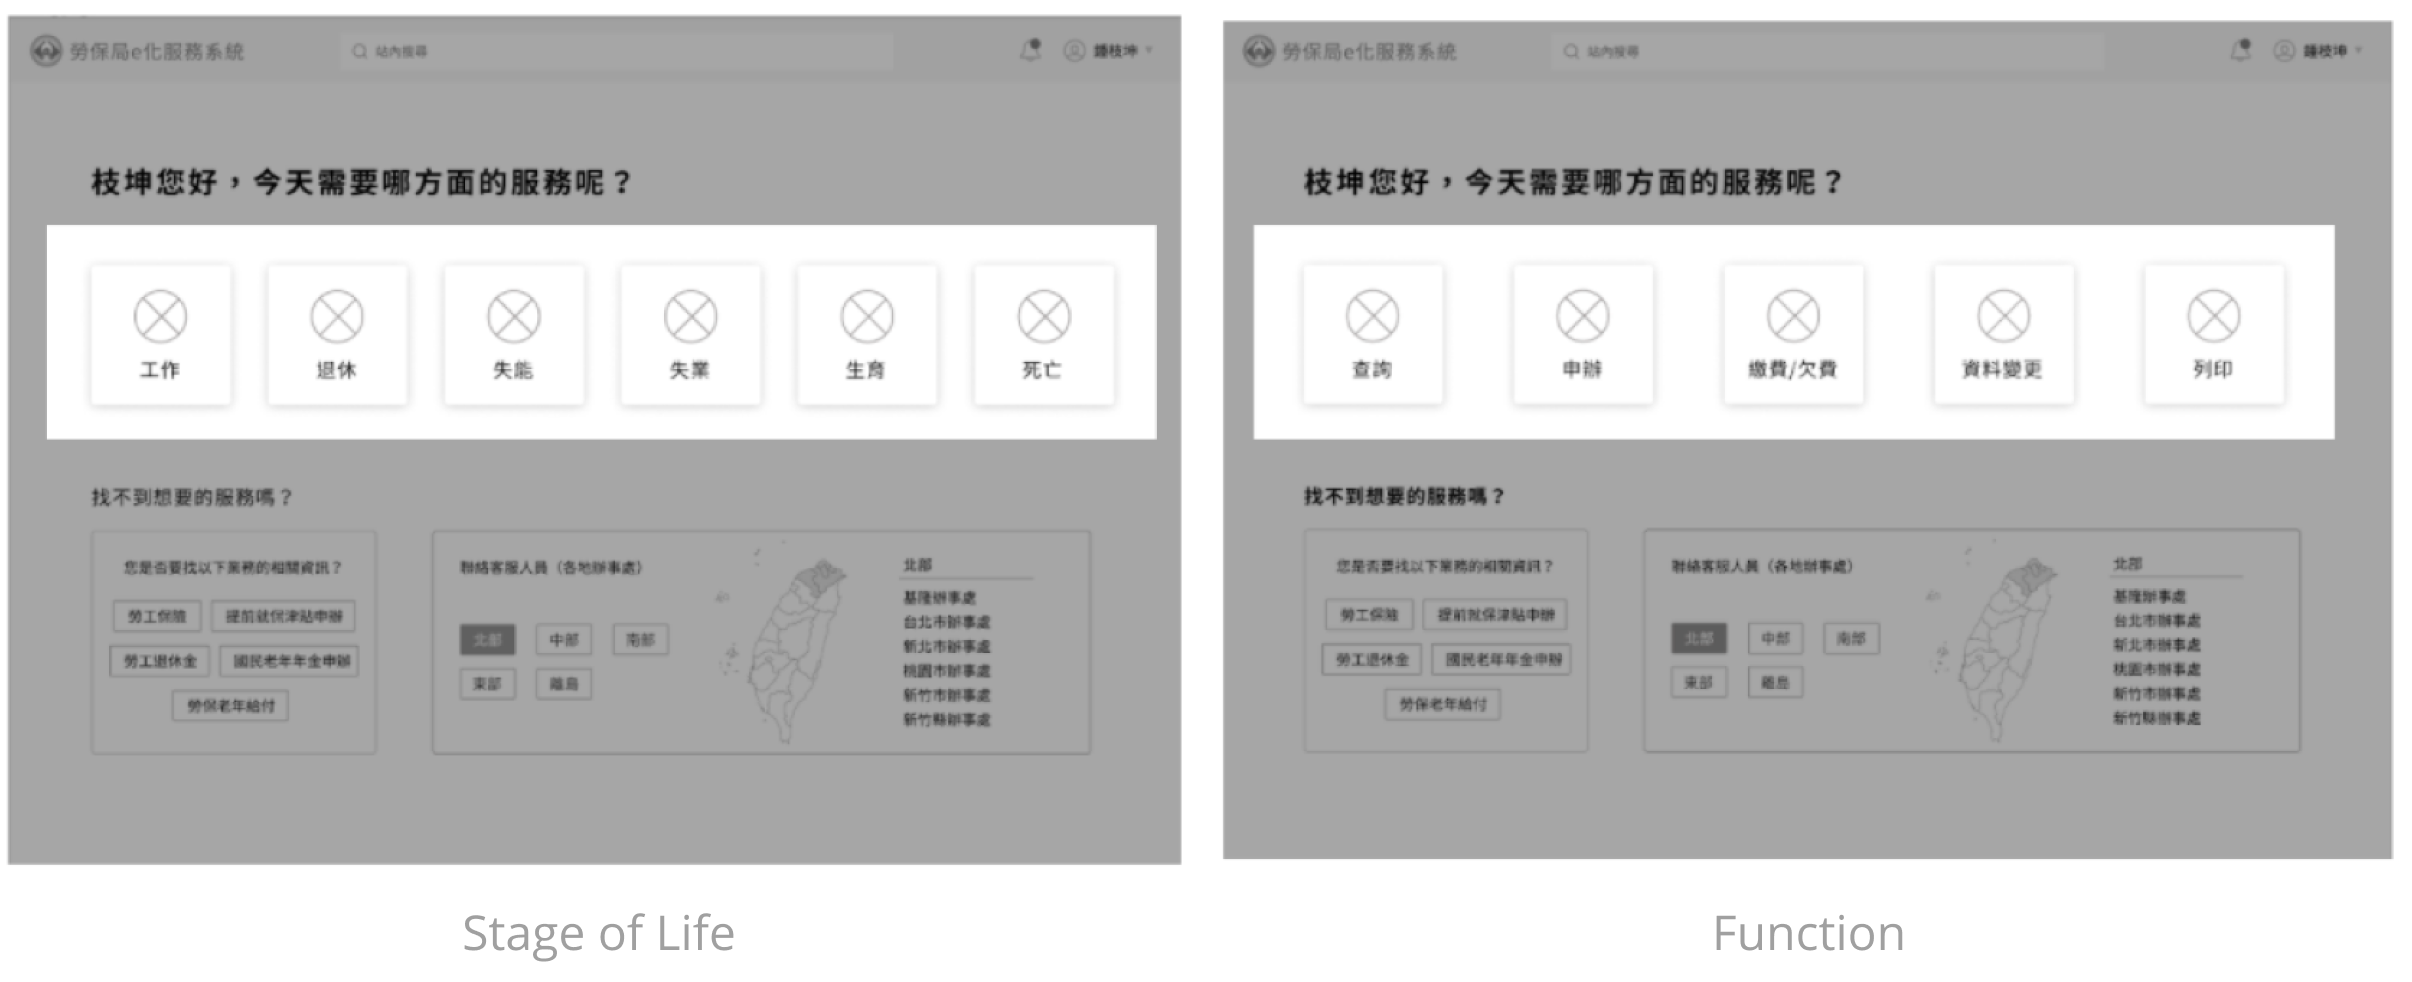
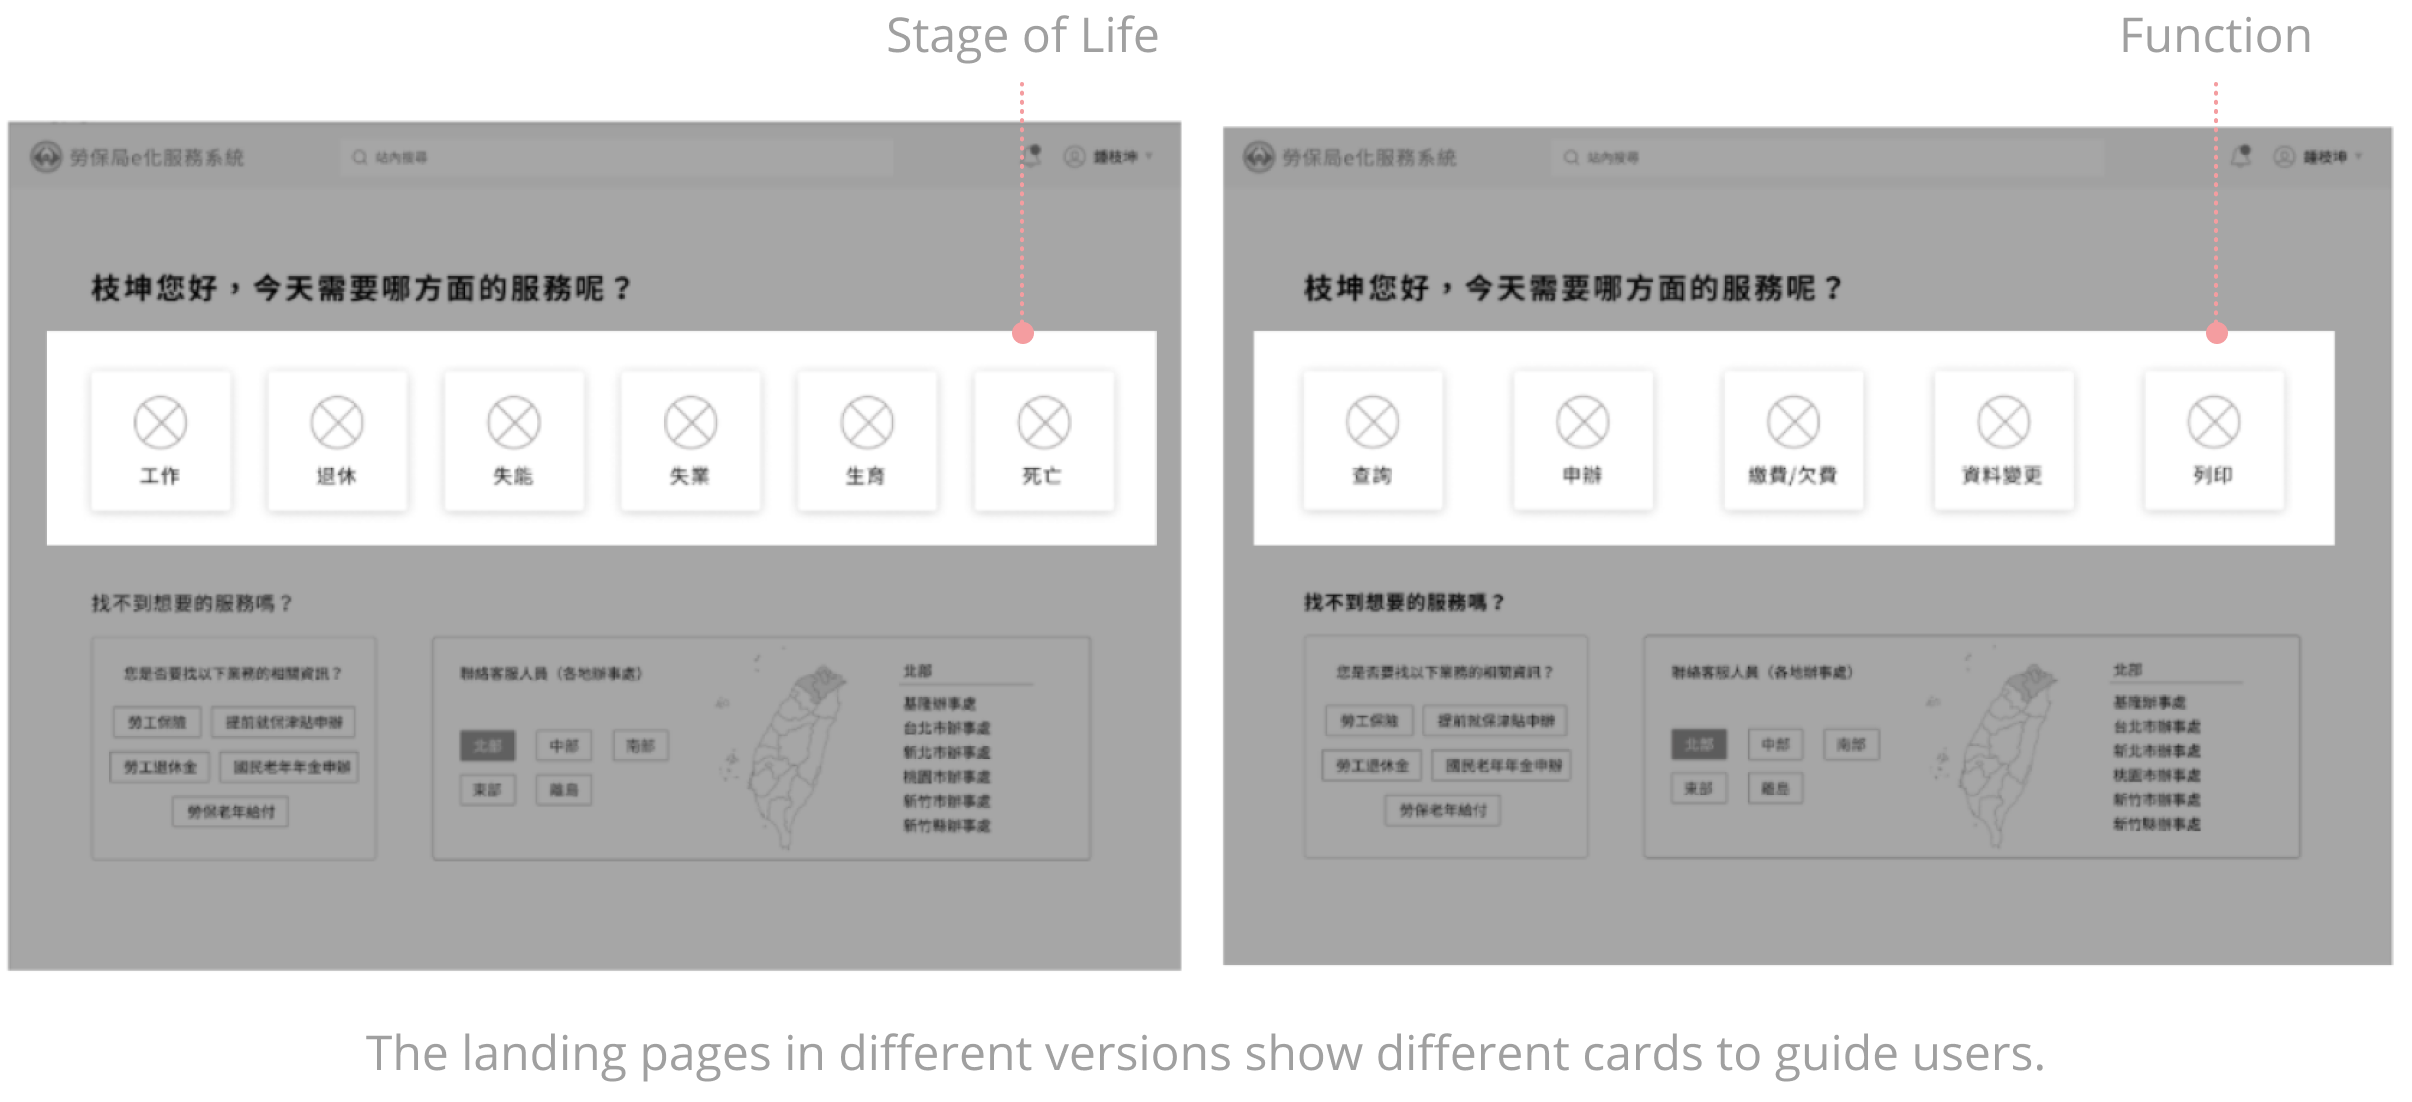
renew iaCompare and add highlights

diff --git a/src/components/Projects/RedesignBLI.js b/src/components/Projects/RedesignBLI.js
@@ -144,7 +144,7 @@ class RedesignBLI extends Component {
                     <p className="secondary-title">3. Design Wireframe</p>
                     <p className="section-subtitle blue-text">Using different information architecture to design two versions of wireframe</p>
                     <p>
-                        Since the Bureau of Labor Insurance provides a wide variety of services, we made two versions of wireframe using different information architecture to categorize each service. The “Stage of Life” version divides services into “working, retired, disabled, unemployed, giving birth, dead”. As for the “Function” version, we simply labeled each service into “making inquiries, applying, paying, changing data, printing”.
+                        Since the Bureau of Labor Insurance provides a wide variety of services, we made two versions of wireframe using different information architecture to categorize each service. The <b>“Stage of Life”</b> version divides services into “working, retired, disabled, unemployed, giving birth, dead”. As for the <b>“Function”</b> version, we simply labeled each service into “making inquiries, applying, paying, changing data, printing”.
                     </p>
                     <img className="full-width-img" src="/images/BLI/IaCompare.png" />
                     <p className="section-subtitle blue-text">Usability Testing on Information Architecture</p>
@@ -153,7 +153,10 @@ class RedesignBLI extends Component {
                     </p>
                     <div className="row">
                         <p className="col-6">
-                            Surprisingly, users found it difficult to search for the service they want in the “Stage of Life” version. For example, there is a subsidy that can only be applied when one was unemployed but later got a new job in 3 months. In this case, some may categorize it as “unemployed”, while others think it should belong to “working”. Due to the lower degree of confusion raised in classifying each service, we decided to use the “Function” version in our future iteration.                        </p>
+                            Surprisingly, users found it difficult to search for the service they want in the “Stage of Life” version. For example, there is a subsidy that can only be applied when one was unemployed but later got a new job in 3 months. In this case, some may categorize it as “unemployed”, while others think it should belong to “working”. 
+                            <br/>
+                            &#8594; Due to the <b>lower degree of confusion</b> raised in classifying each service, we decided to use the <b>“Function”</b> version in our future iteration.                        
+                        </p>
                         <img className="full-width-img col-6" src="/images/BLI/Wireframe.png" />
                     </div>
                 </div>
